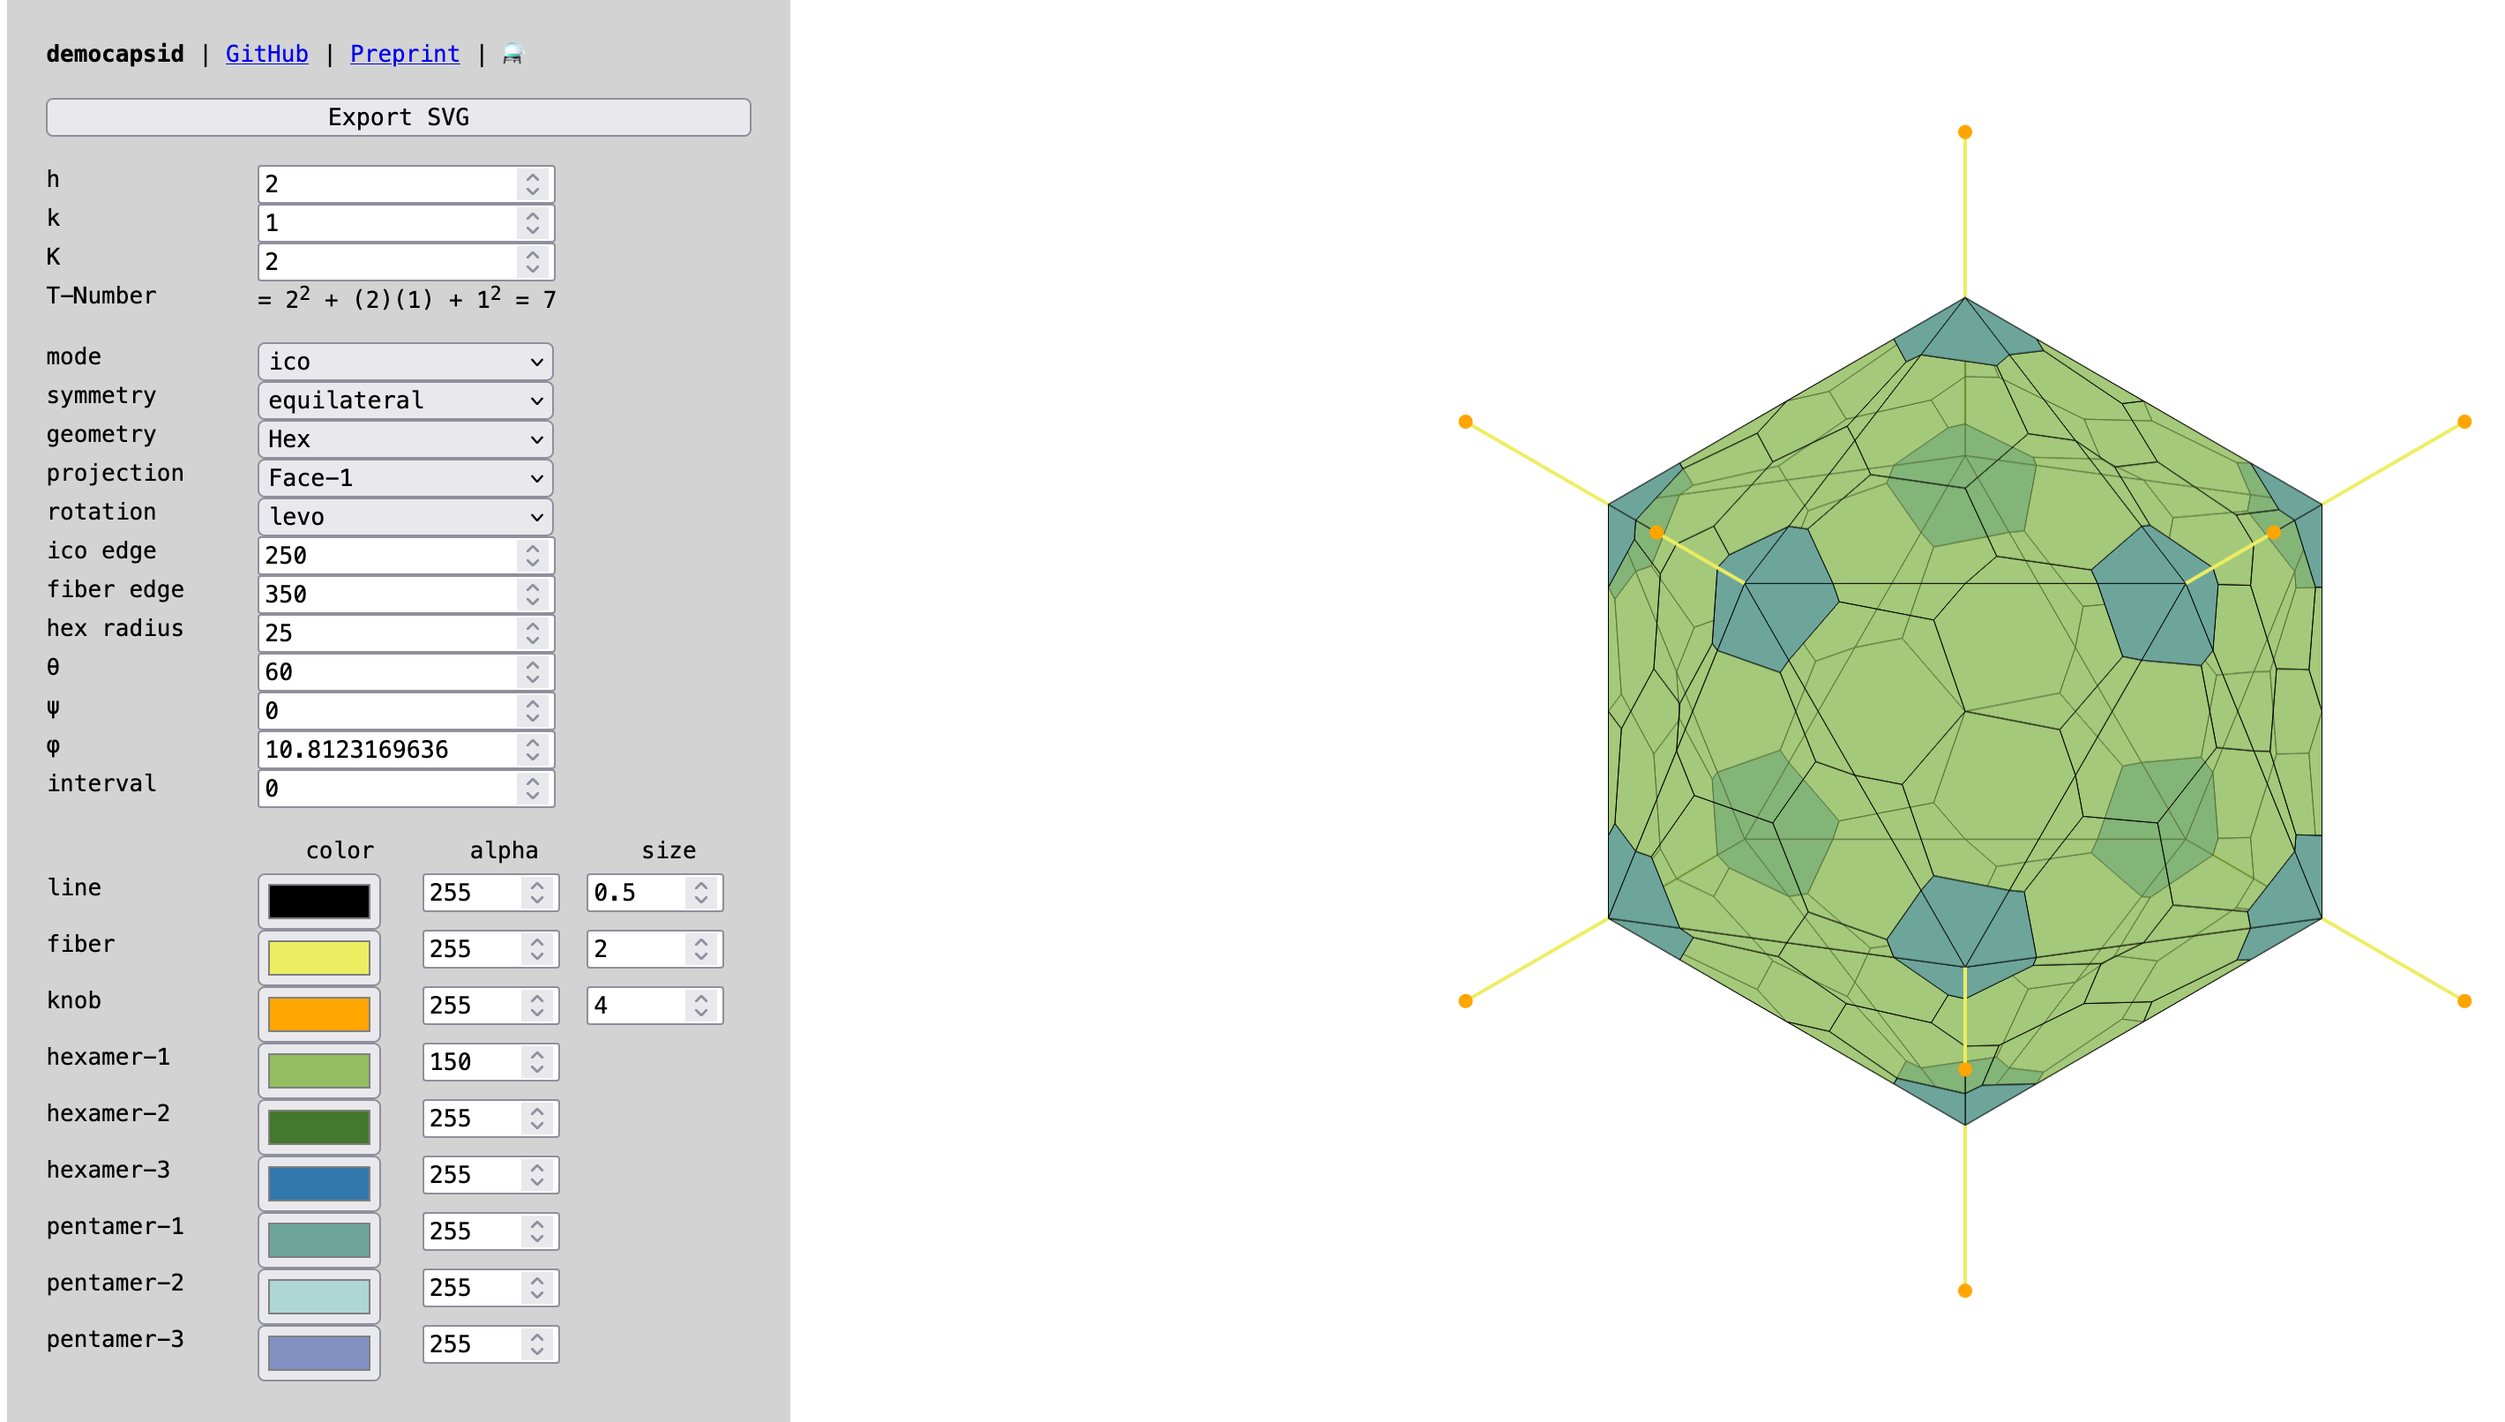
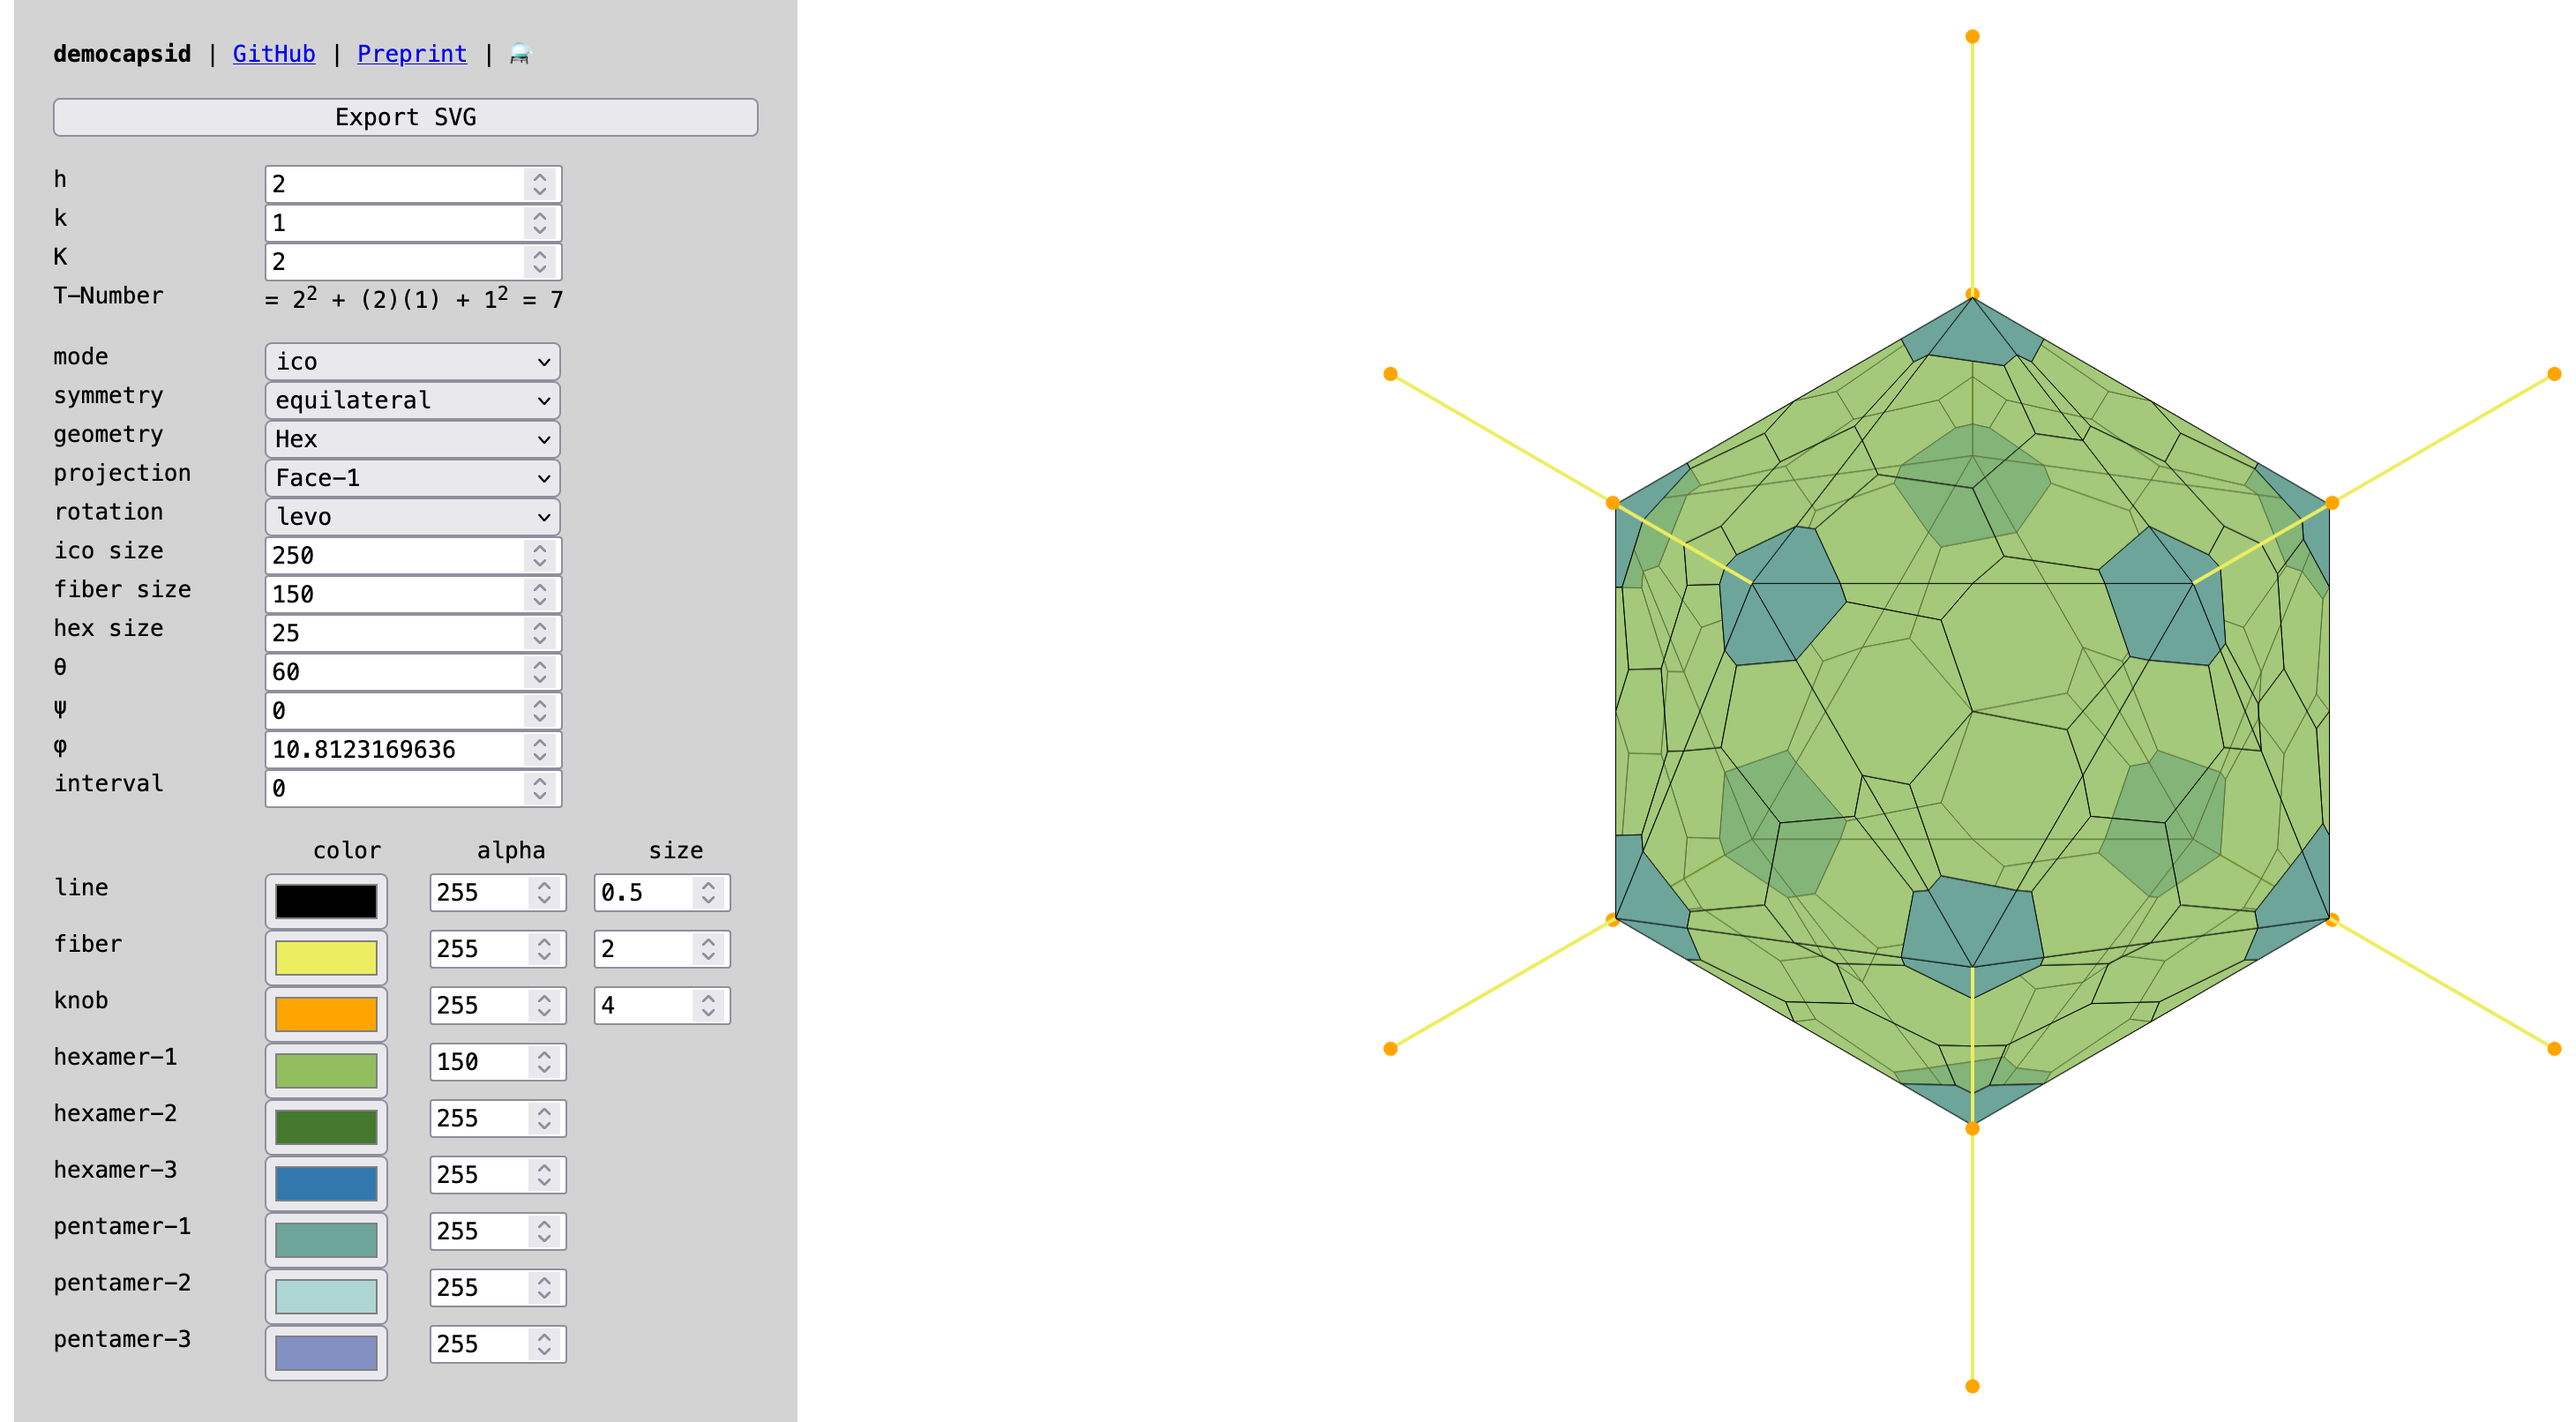
v1.1.1

diff --git a/js/democapsid.js b/js/democapsid.js
@@ -106,10 +106,6 @@ class Camera {
 }
 
 class Icosahedron {
-    constructor(s, h = undefined, th = radians(-60)) {
-        this.setEdge(s, h, th);
-    }
-
     // array of face vertexes
     faceIndexes = [
         // cap
@@ -137,26 +133,19 @@ class Icosahedron {
         [10, 6, 11],
     ];
 
-    // // mid
-    // [1, 2, 0],
-    // [2, 0, 1],
-    // [0, 1, 2],
-    // [2, 0, 1],
-    // [0, 1, 2],
-    // [2, 0, 1],
-    // [0, 1, 2],
-    // [2, 0, 1],
-    // [0, 1, 2],
-    // [2, 0, 1],
-    // // cap
-    // [0, 2, 1],
-    // [0, 2, 1],
-    // [0, 2, 1],
-    // [0, 2, 1],
-    // [0, 2, 1],
-
-    isCap5(i) {
-        return [0, 1, 2, 3, 4, 15, 16, 17, 18, 19].some((e) => e === i);
+    constructor(s, h = undefined, th = radians(-60)) {
+        this.setEdge(s, h, th);
+        this.vertexNeighbors = [];
+        for (var i = 0; i < 12; i++) this.vertexNeighbors[i] = new Set();
+        this.faceIndexes.forEach((e) => {
+            this.vertexNeighbors[e[0]].add(e[1]);
+            this.vertexNeighbors[e[0]].add(e[2]);
+            this.vertexNeighbors[e[1]].add(e[0]);
+            this.vertexNeighbors[e[1]].add(e[2]);
+            this.vertexNeighbors[e[2]].add(e[0]);
+            this.vertexNeighbors[e[2]].add(e[1]);
+        });
+        this.vertexNeighbors = this.vertexNeighbors.map((e) => Array.from(e));
     }
 
     setEdge(s, h, th) {
@@ -206,6 +195,10 @@ class Icosahedron {
             ]);
     }
 
+    isCap5(i) {
+        return [0, 1, 2, 3, 4, 15, 16, 17, 18, 19].some((e) => e === i);
+    }
+
     /**
      * Calculate the 3D vertex projections.
      * @param {Array} P The camera matrix.
@@ -226,6 +219,17 @@ class Icosahedron {
     projectFaces(P) {
         var p = this.projectVertexes(P).map((e) => [e[0][0], e[1][0], e[2][0]]);
         return this.faceIndexes.map((e) => [p[e[0]], p[e[1]], p[e[2]]]);
+    }
+
+    calcVertexFibers(P, F) {
+        var v = this.projectVertexes(P).map((e) => [e[0][0], e[1][0], e[2][0]]);
+        return ico.vertexNeighbors.map((e, i) => {
+            const x = 5 * v[i][0] - (v[e[0]][0] + v[e[1]][0] + v[e[2]][0] + v[e[3]][0] + v[e[4]][0]);
+            const y = 5 * v[i][1] - (v[e[0]][1] + v[e[1]][1] + v[e[2]][1] + v[e[3]][1] + v[e[4]][1]);
+            const z = 5 * v[i][2] - (v[e[0]][2] + v[e[1]][2] + v[e[2]][2] + v[e[3]][2] + v[e[4]][2]);
+            const d = Math.sqrt(x * x + y * y + z * z);
+            return [v[i], [v[i][0] + (x / d) * F, v[i][1] + (y / d) * F, v[i][2] + (z / d) * F]];
+        });
     }
 }
 
@@ -671,7 +675,7 @@ function drawNet5(face) {
     return net;
 }
 
-function drawIco(face, ico, fib, P, opt) {
+function drawIco(face, ico, F, P, opt) {
     // affine transform each triangle to the 2D projection of icosahedron face
     const A = Matrix.inv3([
         [face.bounds.topCenter.x, face.bounds.bottomLeft.x, face.bounds.bottomRight.x],
@@ -679,14 +683,12 @@ function drawIco(face, ico, fib, P, opt) {
         [1, 1, 1],
     ]);
 
-    var fibers = [];
-    if (fib.s > 0) {
-        var p1 = ico.projectVertexes(P).map((e) => [e[0][0], e[1][0], e[2][0]]);
-        var p2 = fib.projectVertexes(P).map((e) => [e[0][0], e[1][0], e[2][0]]);
-        fibers = p1.map((_, i) => {
-            return { v: [p1[i], p2[i]], t: "fiber" };
-        });
-    }
+    var fibers =
+        F > 0
+            ? ico.calcVertexFibers(P, F).map((e) => {
+                  return { v: e, t: "fiber" };
+              })
+            : [];
     return new Group(
         ico
             .projectFaces(P)
@@ -720,11 +722,11 @@ function drawIco(face, ico, fib, P, opt) {
     );
 }
 
-function drawIco5(ff, ico, fib, P, opt) {
+function drawIco5(ff, ico, F, P, sty) {
     // affine transform each triangle to the 2D projection of icosahedron face
     var face1 = ff.children[0];
     var face2 = ff.children[1];
-    var p = pointReduce(face2.children, (a, b) => (a.y > b.y ? a : b));
+    var bottomVertex = pointReduce(face2.children, (a, b) => (a.y > b.y ? a : b));
 
     const A1 = Matrix.inv3([
         [face1.bounds.bottomLeft.x, face1.bounds.topCenter.x, face1.bounds.bottomRight.x],
@@ -732,20 +734,17 @@ function drawIco5(ff, ico, fib, P, opt) {
         [1, 1, 1],
     ]);
     const A2 = Matrix.inv3([
-        [face1.bounds.bottomLeft.x, p.x, face1.bounds.bottomRight.x],
-        [face1.bounds.bottomLeft.y, p.y, face1.bounds.bottomRight.y],
+        [face1.bounds.bottomLeft.x, bottomVertex.x, face1.bounds.bottomRight.x],
+        [face1.bounds.bottomLeft.y, bottomVertex.y, face1.bounds.bottomRight.y],
         [1, 1, 1],
     ]);
 
-    var fibers = [];
-    if (fib.s > 0) {
-        var p1 = ico.projectVertexes(P).map((e) => [e[0][0], e[1][0], e[2][0]]);
-        var p2 = fib.projectVertexes(P).map((e) => [e[0][0], e[1][0], e[2][0]]);
-        fibers = p1.map((_, i) => {
-            return { v: [p1[i], p2[i]], t: "fiber" };
-        });
-    }
-
+    var fibers =
+        F > 0
+            ? ico.calcVertexFibers(P, F).map((e) => {
+                  return { v: e, t: "fiber" };
+              })
+            : [];
     return new Group(
         ico
             .projectFaces(P)
@@ -771,9 +770,9 @@ function drawIco5(ff, ico, fib, P, opt) {
                     return face.clone().transform(new paper.Matrix(M[0][0], M[1][0], M[0][1], M[1][1], M[0][2], M[1][2]));
                 } else {
                     var fiber = new Path.Line([e[0][0], e[0][1]], [e[1][0], e[1][1]]);
-                    fiber.style = opt["fib.mer"];
-                    var knob = new Path.Circle([e[1][0], e[1][1]], opt["knb.mer"].R);
-                    knob.style = opt["knb.mer"]["style"];
+                    fiber.style = sty["fib.mer"];
+                    var knob = new Path.Circle([e[1][0], e[1][1]], sty["knb.mer"].R);
+                    knob.style = sty["knb.mer"]["style"];
                     return new Group([fiber, knob]);
                 }
             })

diff --git a/js/app.js b/js/app.js
@@ -3,7 +3,6 @@ let cam;
 let hex;
 let face;
 let ico;
-let fib;
 
 /**
  * Alias getElementById
@@ -149,7 +148,6 @@ function setProjectionEvent(ele) {
 function updateIco() {
     if (eid("symmetry").value === "equilateral") {
         ico.setEdge(opt.R3, opt.R3, -radians(60));
-        fib.setEdge(opt.F, opt.F, -radians(60));
     } else {
         const pa = pointReduce(face.children[1].children, (a, b) => (a.y > b.y ? a : b));
         const pb = face.children[0].bounds.bottomRight;
@@ -158,7 +156,6 @@ function updateIco() {
         const B = angle(pb, pa, pc);
         const A = radians(180) - B - C;
         ico.setEdge(opt.R3, (opt.R3 * Math.sin(B)) / Math.sin(A), -C);
-        fib.setEdge(opt.F, (opt.F * Math.sin(B)) / Math.sin(A), -C);
     }
 }
 
@@ -217,8 +214,8 @@ function redraw() {
         case "ico":
             obj =
                 eid("symmetry").value === "equilateral" //
-                    ? drawIco(face, ico, fib, cam.P, getIcoStyle())
-                    : drawIco5(face, ico, fib, cam.P, getIcoStyle());
+                    ? drawIco(face, ico, opt.F, cam.P, getIcoStyle())
+                    : drawIco5(face, ico, opt.F, cam.P, getIcoStyle());
             break;
         case "net":
             obj =
@@ -293,7 +290,6 @@ window.onload = function () {
     getOpt();
     setProjection(eid("projection").value);
     ico = new Icosahedron(opt.R3);
-    fib = new Icosahedron(opt.F);
 
     // draw
     drawHex();

diff --git a/capsid.html b/capsid.html
@@ -80,11 +80,11 @@
                         </select>
                     </div>
 
-                    <div><label for="R3">ico edge</label></div>
+                    <div><label for="R3">ico size</label></div>
                     <div><input type="number" id="R3" step="any" value="250" min="0" /></div>
-                    <div><label for="F">fiber edge</label></div>
-                    <div><input type="number" id="F" step="any" value="350" min="0" /></div>
-                    <div><label for="R2">hex radius </label></div>
+                    <div><label for="F">fiber size</label></div>
+                    <div><input type="number" id="F" step="any" value="150" min="0" /></div>
+                    <div><label for="R2">hex size </label></div>
                     <div><input type="number" id="R2" step="any" value="25" min="0" /></div>
 
                     <div><label for="θ">θ</label></div>

diff --git a/CHANGELOG.md b/CHANGELOG.md
@@ -1,3 +1,8 @@
+# v1.1.1
+
+-   remove need for face vertex connectivity index
+-   calculate vertex normals for fibers instead of another larger icosahedron
+
 # v1.1.0
 
 -   implement elongated capsid with 5-fold symmetry
